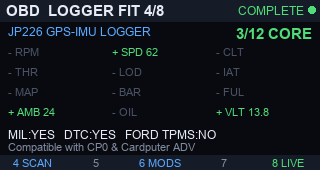
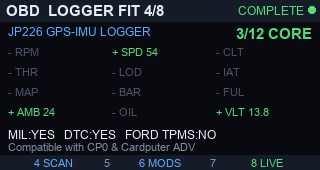
Align button 4-8 footer labels to physical key spacing (3..9 edges)

diff --git a/Cardputer-Zero/JP226-OBDii-Scanner-CP0/jp226obd/ui.py b/Cardputer-Zero/JP226-OBDii-Scanner-CP0/jp226obd/ui.py
@@ -134,11 +134,15 @@ def footer_slots(index: int) -> List[Tuple[int, str, str]]:
     return slots
 
 
+def footer_slot_x(col: int, width: int = hardware.SCREEN_WIDTH) -> int:
+    """Physical x-center for keys 4-8 when x=0 is key 3 center and x=width is key 9 center."""
+    return round((col + 1) * width / 6.0)
+
+
 def _footer(draw, f: _Fonts, index: int, width: int, height: int) -> None:
     draw.rectangle([0, height - 15, width, height], fill=_PANEL)
-    slot_w = width / len(hardware.KEYS_PAGE_ACTIONS)
     for col, text, kind in footer_slots(index):
-        x = round(slot_w * (col + 0.5))
+        x = footer_slot_x(col, width)
         _text(draw, x, height - 13, text, f.tiny, _KIND_COLOURS[kind], "c")
 
 

diff --git a/Cardputer-Zero/JP226-OBDii-Scanner-CP0/tests/test_ui_and_packaging.py b/Cardputer-Zero/JP226-OBDii-Scanner-CP0/tests/test_ui_and_packaging.py
@@ -56,6 +56,7 @@ class AppAndUiTests(unittest.TestCase):
         self.assertEqual(keys.page_action_for("SHARE", "KEY_4"), keys.TOGGLE_WEB)
         self.assertEqual(keys.page_action_for("SHARE", "KEY_5"), keys.CYCLE_WEB_PORT)
         self.assertEqual(len(ui.footer_slots(0)), 5)
+        self.assertEqual([ui.footer_slot_x(i, 320) for i in range(5)], [53, 107, 160, 213, 267])
 
     def test_page_action_dispatch(self):
         tmp = tempfile.mkdtemp()
